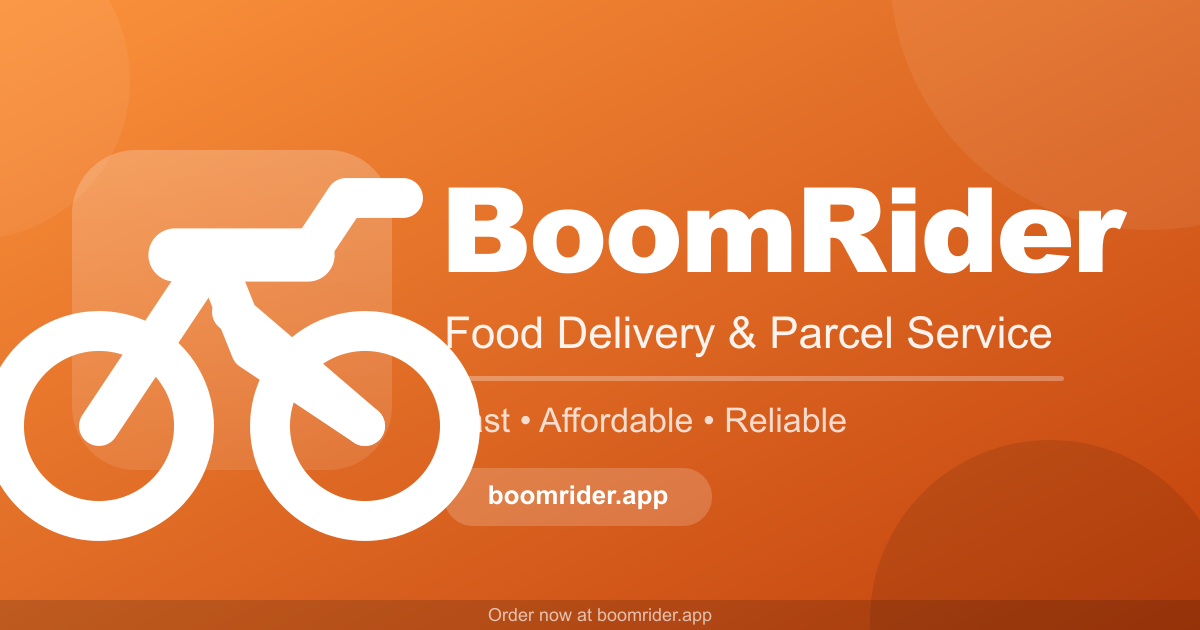
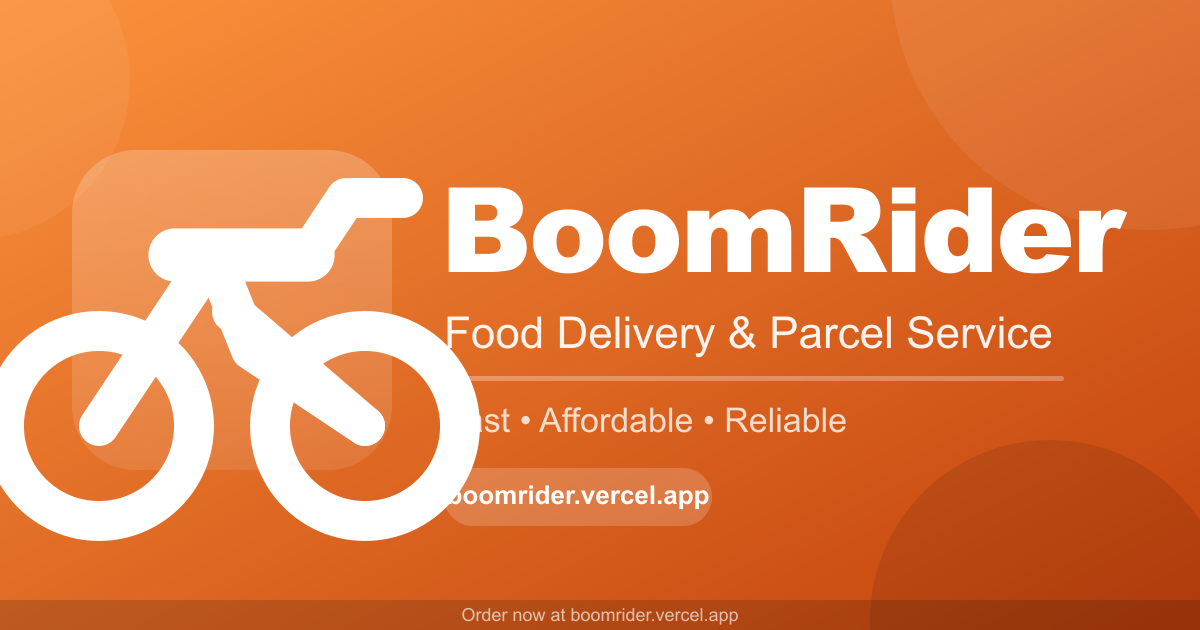
fix: correct OG image URL — use boomrider.vercel.app (not boomrider.app)
boomrider.app domain does not resolve; all 15 hardcoded URLs in index.html
updated to boomrider.vercel.app which is the live production URL.
OG image banner PNG regenerated with the correct URL text.

This fixes the white-box social media preview — the og:image at
https://boomrider.vercel.app/og-image.png is confirmed accessible (HTTP 200).

Changed region(s): [[0.37, 0.754, 0.5858, 0.8143], [0.37, 0.9651, 0.6167, 0.9952]]

diff --git a/index.html b/index.html
@@ -15,19 +15,19 @@
     <meta name="apple-mobile-web-app-status-bar-style" content="default" />
     <meta name="apple-mobile-web-app-title" content="BoomRider" />
     <meta name="mobile-web-app-capable" content="yes" />
-    <link rel="canonical" href="https://boomrider.app/" />
+    <link rel="canonical" href="https://boomrider.vercel.app/" />
 
     <!-- Hreflang -->
-    <link rel="alternate" hreflang="th" href="https://boomrider.app/" />
-    <link rel="alternate" hreflang="en" href="https://boomrider.app/en/" />
-    <link rel="alternate" hreflang="x-default" href="https://boomrider.app/" />
+    <link rel="alternate" hreflang="th" href="https://boomrider.vercel.app/" />
+    <link rel="alternate" hreflang="en" href="https://boomrider.vercel.app/en/" />
+    <link rel="alternate" hreflang="x-default" href="https://boomrider.vercel.app/" />
 
     <!-- Open Graph / Facebook -->
     <meta property="og:type" content="website" />
-    <meta property="og:url" content="https://boomrider.app/" />
+    <meta property="og:url" content="https://boomrider.vercel.app/" />
     <meta property="og:title" content="BoomRider - สั่งอาหารส่งถึงบ้าน เร็ว ถูก ปลอดภัย" />
     <meta property="og:description" content="สั่งอาหารและส่งพัสดุออนไลน์ ส่งเร็ว ราคาถูก ครอบคลุมทั่วกรุงเทพและปริมณฑล" />
-    <meta property="og:image" content="https://boomrider.app/og-image.png" />
+    <meta property="og:image" content="https://boomrider.vercel.app/og-image.png" />
     <meta property="og:image:width" content="1200" />
     <meta property="og:image:height" content="630" />
     <meta property="og:image:type" content="image/png" />
@@ -39,7 +39,7 @@
     <meta name="twitter:site" content="@boomrider_app" />
     <meta name="twitter:title" content="BoomRider - สั่งอาหารส่งถึงบ้าน" />
     <meta name="twitter:description" content="สั่งอาหารและส่งพัสดุออนไลน์ ส่งเร็ว ราคาถูก" />
-    <meta name="twitter:image" content="https://boomrider.app/og-image.png" />
+    <meta name="twitter:image" content="https://boomrider.vercel.app/og-image.png" />
 
     <!-- PWA Manifest & Icons -->
     <link rel="manifest" href="/manifest.json" />
@@ -60,7 +60,7 @@
       "@type": "MobileApplication",
       "name": "BoomRider",
       "description": "แอปสั่งอาหารและส่งพัสดุออนไลน์ ส่งเร็ว ราคาถูก",
-      "url": "https://boomrider.app",
+      "url": "https://boomrider.vercel.app",
       "applicationCategory": "FoodDelivery",
       "operatingSystem": "Android, iOS, Web",
       "offers": {
@@ -76,7 +76,7 @@
       "author": {
         "@type": "Organization",
         "name": "BoomRider Co., Ltd.",
-        "url": "https://boomrider.app"
+        "url": "https://boomrider.vercel.app"
       }
     }
     </script>
@@ -87,8 +87,8 @@
       "@context": "https://schema.org",
       "@type": "Organization",
       "name": "BoomRider",
-      "url": "https://boomrider.app",
-      "logo": "https://boomrider.app/icons/icon-512.png",
+      "url": "https://boomrider.vercel.app",
+      "logo": "https://boomrider.vercel.app/icons/icon-512.png",
       "sameAs": [
         "https://www.facebook.com/boomrider",
         "https://twitter.com/boomrider_app",
@@ -107,12 +107,12 @@
     {
       "@context": "https://schema.org",
       "@type": "WebSite",
-      "url": "https://boomrider.app/",
+      "url": "https://boomrider.vercel.app/",
       "potentialAction": {
         "@type": "SearchAction",
         "target": {
           "@type": "EntryPoint",
-          "urlTemplate": "https://boomrider.app/search?q={search_term_string}"
+          "urlTemplate": "https://boomrider.vercel.app/search?q={search_term_string}"
         },
         "query-input": "required name=search_term_string"
       }